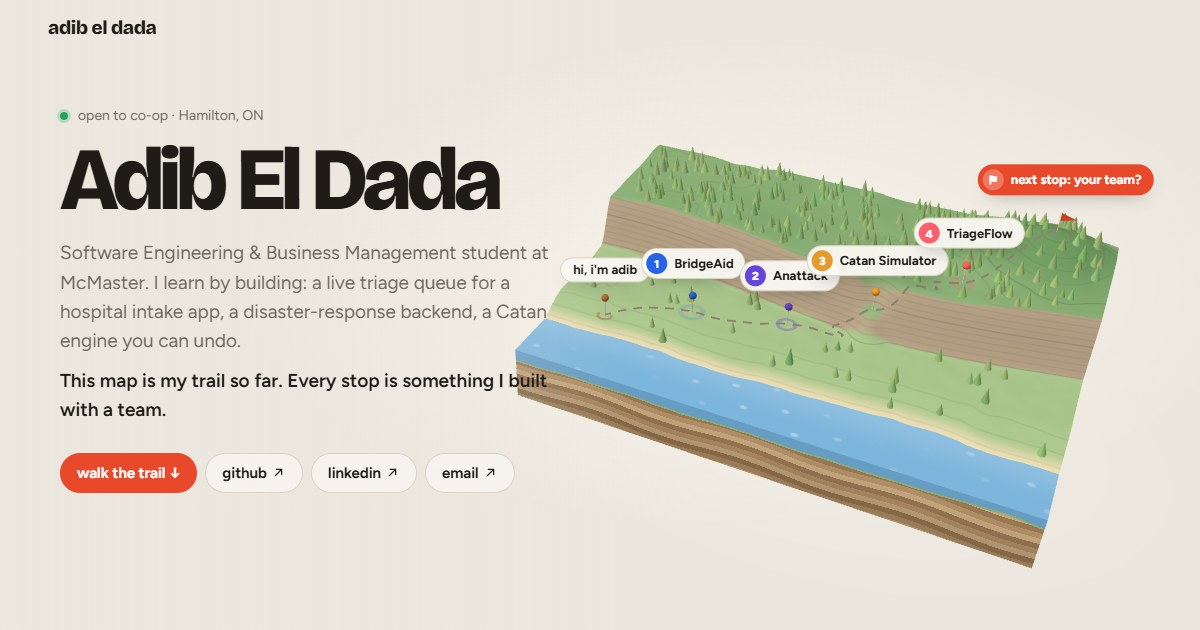
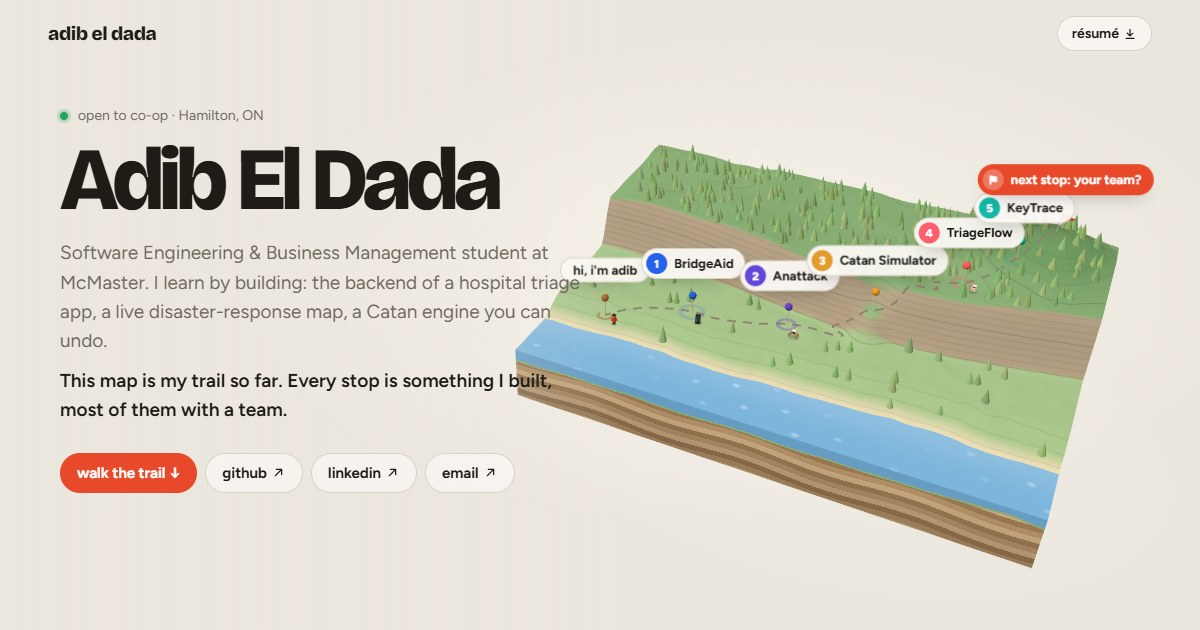
Added KeyTrace

diff --git a/src/data/projects.ts b/src/data/projects.ts
@@ -12,9 +12,11 @@ export interface Project {
 	about: string;
 	mine: string[];
 	stack: string[];
-	// who i built it with (every one of these was a team project)
-	team: string;
+	// who i built it with. leave it out for a solo project (the card says "solo project")
+	team?: string;
 	award?: string;
+	// optional: shown as a badge on the card, like 'in progress'
+	status?: string;
 	// the links on the card: the code, and a live version people can try (leave demo out if there isn't one)
 	github: string;
 	demo?: string;
@@ -102,6 +104,25 @@ export const projects: Project[] = [
 		team: 'my team at Mac-A-Thon',
 		github: 'https://github.com/adibeldada/TriageFlow',
 		demo: 'https://triage-flow-nine.vercel.app',
+	},
+	{
+		id: 'keytrace',
+		map: { x: 3.95, z: -1.85 },
+		name: 'KeyTrace',
+		tagline: 'Coding interview practice you can rewind.',
+		context: 'Personal project',
+		when: 'Sep 2026 – now',
+		status: 'in progress',
+		icon: ['#14B8A6', '#5EEAD4'],
+		about:
+			'A web app for practicing coding interviews. You solve a problem in a shared code editor in the browser, alone or with a friend or tutor playing the interviewer. The idea: every keystroke gets recorded, so afterwards you can replay the session and see where you got stuck, what you rewrote and how long each part took, like athletes reviewing game footage.',
+		mine: [
+			'Built the real-time core: a Spring Boot backend where each session is a room with its own random ID, and a WebSocket handler relays every edit to everyone else in that room.',
+			"Built the React + TypeScript frontend around the Monaco editor (the one inside VS Code). The room keeps its latest code, so anyone who joins late sees it right away.",
+			'Next up: recording every keystroke with timestamps, replaying sessions with play, pause and scrubbing, and running code in sandboxed Docker containers.',
+		],
+		stack: ['Java', 'Spring Boot', 'WebSockets', 'React', 'TypeScript', 'Monaco Editor'],
+		github: 'https://github.com/adibeldada/KeyTrace',
 	},
 ];
 
